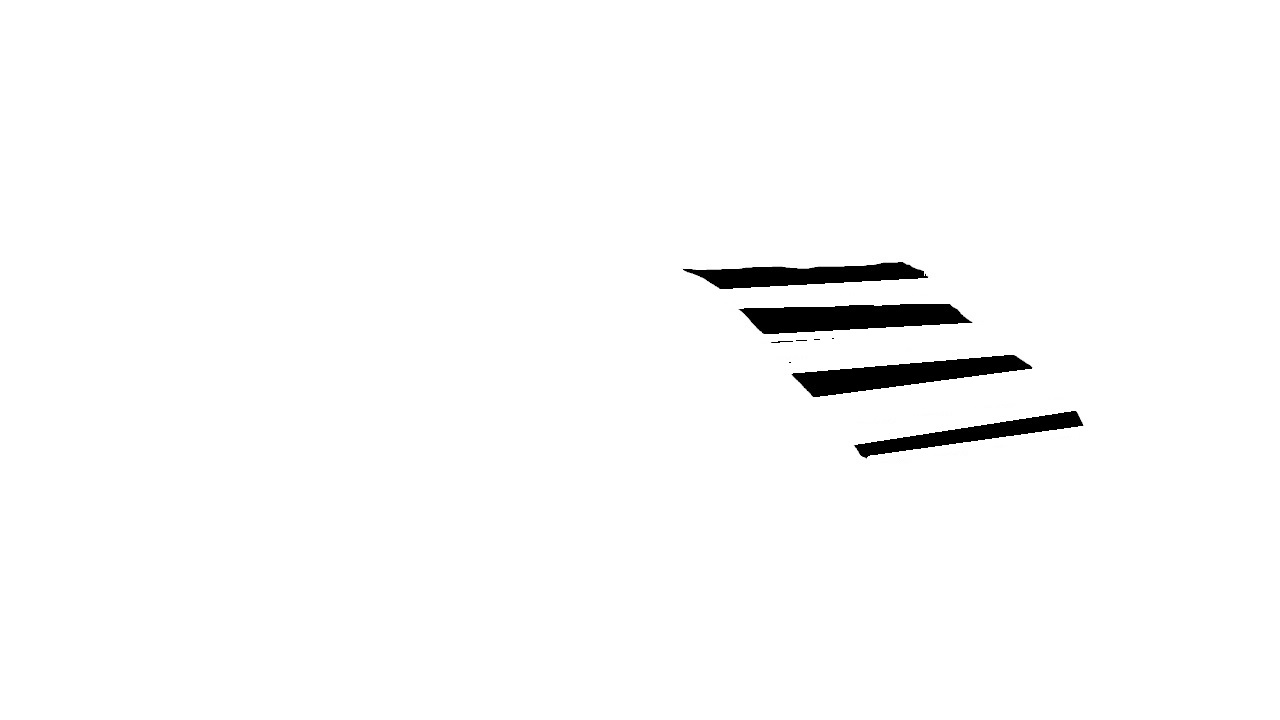
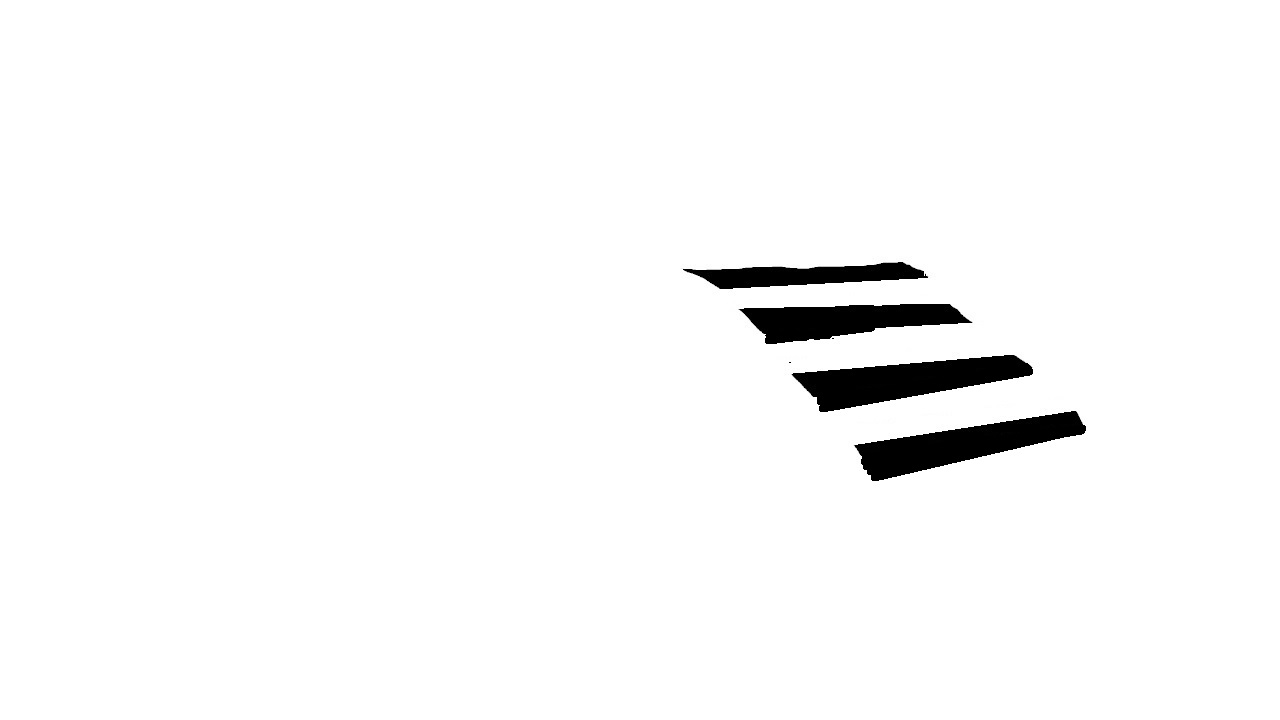
update, bug fixes

Changed region(s): [[0.6562, 0.5806, 0.8438, 0.6722], [0.625, 0.4889, 0.8125, 0.5806], [0.5938, 0.4583, 0.6875, 0.4889]]

diff --git a/final/detection.py b/final/detection.py
@@ -7,17 +7,6 @@ cam = "rtsp://Hackathon:SzentJozsef1@192.168.0.180:554/cam/realmonitor?channel=2
 # Load the camera
 cap = cv2.VideoCapture(cam)
 
-def get_real_time_footage(cap):
-    _, img = cap.read()
-
-    if img is None:
-        cap.release()
-        cap = cv2.VideoCapture(cam)
-        print("No image, restaring camera loader!")
-        get_real_time_footage()
-
-    return img
-
 def show_picture(img):
     cv2.imshow('image', img)
 
@@ -50,17 +39,17 @@ def prepare_mask(mask):
 def prepare_image(img):
     img = reduce_noise(img)
     
-    brightness = 80
+    brightness = 90
     img = cv2.addWeighted(img, 1, img, 0, brightness)
 
-    contrast = 100
+    contrast = 500
     img = cv2.addWeighted(img, contrast, img, 0, int(round(255*(1-contrast)/2)))
 
     return img
 
 def detect_person(img):
     # Remove white colors from the image
-    img = cv2.inRange(img, (128, 0, 0), (255, 255, 255))
+    img = cv2.inRange(img, (255, 255, 255), (255, 255, 255))
     
     # Remove noise
     img = cv2.morphologyEx(img, cv2.MORPH_OPEN, None, iterations=2)
@@ -72,13 +61,15 @@ def detect_person(img):
     #return img
 
 def detect_active_sectors(img):
+    original_img = img
+    #original_img = prepare_image(original_img)
     img = prepare_image(img)
     masks = np.array(['images/sector1_edge0 - Copy.jpg', 'images/sector2_edge0 - Copy.jpg', 
                       'images/sector3_edge0 - Copy.jpg', 'images/sector4_edge0 - Copy.jpg', 
                       'images/sector5_edge0 - Copy.jpg', 'images/sector6_edge0 - Copy.jpg', ])
 
     sectors = np.array([0, 0, 0, 0, 0, 0])
-    sector_trigger = np.array([50, 100, 100, 50, 100, 100])
+    sector_trigger = np.array([50, 100, 100, 80, 100, 100])
     index = 0
 
 
@@ -89,18 +80,23 @@ def detect_active_sectors(img):
         print(detect_person(img2))
         if detect_person(img2) > sector_trigger[index]:
             sectors[index] = 1
+            img2 = cv2.inRange(img2, (255, 255, 255), (255, 255, 255))
+            img2 = cv2.morphologyEx(img2, cv2.MORPH_OPEN, None, iterations=2)
+            contours, hierarchy = cv2.findContours(img2, cv2.RETR_TREE, cv2.CHAIN_APPROX_SIMPLE)
+            cv2.drawContours(original_img, contours, -1, (0, 255, 0), 2)
         index += 1
 
+    show_picture(original_img)
     return sectors
 
 while True:
-    img = get_real_time_footage(cap)
+    _, img = cap.read()
 
-    show_picture(img)
+    if img is None:
+        cap.release()
+        cap = cv2.VideoCapture(cam)
+        print("No image, restaring camera loader!")
 
-    save_image(img, "fail")
-
-    img = prepare_image(img)
     print(detect_active_sectors(img))
 
     # sleep for 10000 ms

diff --git a/detector.py b/detector.py
@@ -95,7 +95,7 @@ def prepare_image_2(img):
 
 def detect_person(img):
     # Remove white colors from the image
-    img = cv2.inRange(img, (128, 0, 0), (255, 255, 255))
+    img = cv2.inRange(img, (255, 255, 255), (255, 255, 255))
     
     # Remove noise
     img = cv2.morphologyEx(img, cv2.MORPH_OPEN, None, iterations=2)
@@ -109,13 +109,14 @@ def detect_person(img):
     #return img
 
 def detect_active_sectors(img):
+    original_img = img
     img = prepare_image(img)
     masks = np.array(['images/sector1_edge0 - Copy.jpg', 'images/sector2_edge0 - Copy.jpg', 
                       'images/sector3_edge0 - Copy.jpg', 'images/sector4_edge0 - Copy.jpg', 
                       'images/sector5_edge0 - Copy.jpg', 'images/sector6_edge0 - Copy.jpg', ])
 
     sectors = np.array([0, 0, 0, 0, 0, 0])
-    sector_trigger = np.array([50, 100, 100, 50, 100, 100])
+    sector_trigger = np.array([80, 100, 100, 80, 100, 100])
     index = 0
 
 
@@ -126,17 +127,23 @@ def detect_active_sectors(img):
         print(detect_person(img2))
         if detect_person(img2) > sector_trigger[index]:
             sectors[index] = 1
+            img2 = cv2.inRange(img2, (255, 255, 255), (255, 255, 255))
+            img2 = cv2.morphologyEx(img2, cv2.MORPH_OPEN, None, iterations=2)
+            contours, hierarchy = cv2.findContours(img2, cv2.RETR_TREE, cv2.CHAIN_APPROX_SIMPLE)
+            cv2.drawContours(original_img, contours, -1, (0, 255, 0), 2)
         index += 1
+
+    show_picture(img)
 
     return sectors
 
 # Load an image
 #img = cv2.imread('images/ulo/l22u.jpg')
-img = cv2.imread('test-fail.jpg')
+img = cv2.imread('test-2.jpg')
 #base = cv2.imread('images/edges-0.jpg')
-mask = cv2.imread('images/sector2_edge0 - Copy.jpg')
+mask = cv2.imread('images/sector1_edge0 - Copy.jpg')
 
-print(detect_active_sectors(img))
+#print(detect_active_sectors(img))
 
 #img = get_real_time_footage(cap)
 
@@ -150,12 +157,12 @@ mask = prepare_mask(mask)
 #print(detect_person(img))
 
 # Apply the mask
-#img = apply_mask(img, mask)
+img = apply_mask(img, mask)
 
-#print(detect_person(img))
+print(detect_person(img))
 
 # Show the image
-show_picture(img)
+#show_picture(img)
 
 # Wait until esc pressed
 cv2.waitKey(0)
